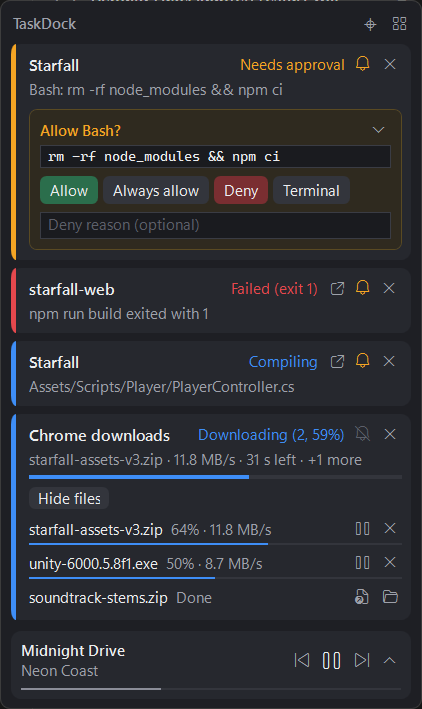
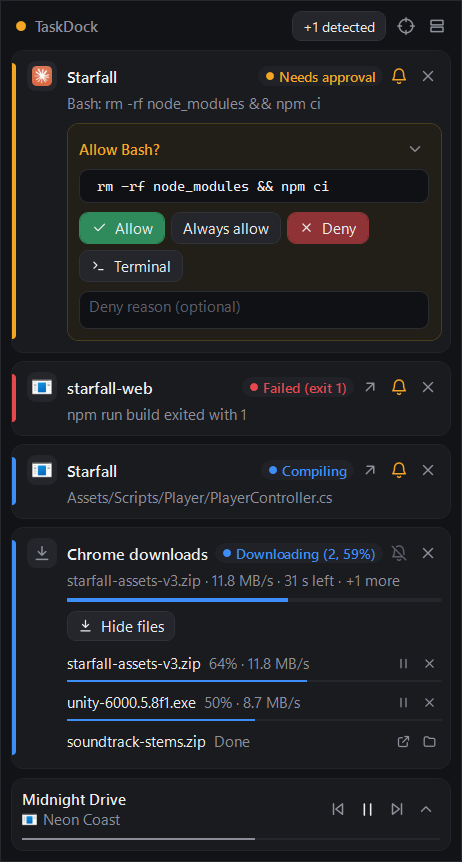
README screenshots in the new look; widget 352 px wide
- New widget-expanded, -compact, -media and -pill images from a staged scene (fake
  adapters and a fake "Midnight Drive" media session; no real data)
- The widget grows from 320 to 352 px so a tile's name still fits next to its status chip

diff --git a/src/TaskDock.App/MainWindow.xaml b/src/TaskDock.App/MainWindow.xaml
@@ -85,7 +85,7 @@
             <Setter Property="Template">
                 <Setter.Value>
                     <ControlTemplate TargetType="Button">
-                        <Border x:Name="b" Background="Transparent" CornerRadius="6" Padding="5">
+                        <Border x:Name="b" Background="Transparent" CornerRadius="6" Padding="4">
                             <Viewbox Width="{TemplateBinding FontSize}" Height="{TemplateBinding FontSize}">
                                 <Grid Width="24" Height="24">
                                     <Path Style="{StaticResource Stroke}" Data="{Binding Tag, RelativeSource={RelativeSource TemplatedParent}}" Stroke="{TemplateBinding Foreground}"/>
@@ -109,7 +109,7 @@
             <Setter Property="Template">
                 <Setter.Value>
                     <ControlTemplate TargetType="ToggleButton">
-                        <Border x:Name="b" Background="Transparent" CornerRadius="6" Padding="5">
+                        <Border x:Name="b" Background="Transparent" CornerRadius="6" Padding="4">
                             <Viewbox Width="14" Height="14">
                                 <Grid Width="24" Height="24">
                                     <Path x:Name="p" Style="{StaticResource Stroke}" Data="{StaticResource I.bellOff}" Stroke="{StaticResource Faint}"/>
@@ -129,10 +129,10 @@
         </Style>
         <!-- The source's own program icon, or our glyph for it while that isn't known. -->
         <Style x:Key="GlyphBox" TargetType="Border">
-            <Setter Property="Width" Value="26"/><Setter Property="Height" Value="26"/>
+            <Setter Property="Width" Value="24"/><Setter Property="Height" Value="24"/>
             <Setter Property="CornerRadius" Value="7"/>
             <Setter Property="Background" Value="{StaticResource Raised}"/>
-            <Setter Property="Margin" Value="0,0,9,0"/>
+            <Setter Property="Margin" Value="0,0,8,0"/>
             <Setter Property="VerticalAlignment" Value="Center"/>
         </Style>
         <Style x:Key="MenuIcon" TargetType="Viewbox">
@@ -173,9 +173,9 @@
                                 <Button Style="{StaticResource Icon}" Tag="{StaticResource I.close}" ToolTip="Remove" Command="{Binding UnpinCommand}"
                                         Visibility="{Binding IsPinned, Converter={StaticResource Vis}}"/>
                             </StackPanel>
-                            <Border DockPanel.Dock="Right" CornerRadius="9" Padding="7,2" Margin="6,0,2,0" VerticalAlignment="Center" Background="#202227">
+                            <Border DockPanel.Dock="Right" CornerRadius="9" Padding="6,1" Margin="4,0,1,0" VerticalAlignment="Center" Background="#202227">
                                 <StackPanel Orientation="Horizontal">
-                                    <Ellipse Width="6" Height="6" Fill="{Binding ClassBrush}" Margin="0,0,5,0" VerticalAlignment="Center"/>
+                                    <Ellipse Width="6" Height="6" Fill="{Binding ClassBrush}" Margin="0,0,4,0" VerticalAlignment="Center"/>
                                     <TextBlock Text="{Binding StateText}" Foreground="{Binding ClassBrush}" FontSize="11" FontWeight="SemiBold" VerticalAlignment="Center"/>
                                 </StackPanel>
                             </Border>
@@ -189,13 +189,13 @@
                             </Border>
                             <TextBlock Text="{Binding Label}" FontWeight="SemiBold" FontSize="13" TextTrimming="CharacterEllipsis" VerticalAlignment="Center"/>
                         </DockPanel>
-                        <StackPanel Margin="35,0,0,0" Visibility="{Binding DataContext.IsExpanded, RelativeSource={RelativeSource AncestorType=Window}, Converter={StaticResource Vis}}">
+                        <StackPanel Margin="32,0,0,0" Visibility="{Binding DataContext.IsExpanded, RelativeSource={RelativeSource AncestorType=Window}, Converter={StaticResource Vis}}">
                             <TextBlock Text="{Binding Detail}" Foreground="{StaticResource Muted}" TextTrimming="CharacterEllipsis" Margin="0,2,0,0"
                                        Visibility="{Binding HasDetail, Converter={StaticResource Vis}}" ToolTip="{Binding Detail}"/>
                             <ProgressBar Height="3" Margin="0,6,0,0" Minimum="0" Maximum="1" Value="{Binding Progress}" Foreground="{Binding ClassBrush}"
                                          Background="{StaticResource Raised}" BorderThickness="0" Visibility="{Binding HasProgress, Converter={StaticResource Vis}}"/>
                         </StackPanel>
-                        <StackPanel Margin="35,0,0,0">
+                        <StackPanel Margin="32,0,0,0">
                             <Button Style="{StaticResource Btn}" Tag="{StaticResource I.power}" Content="Launch" HorizontalAlignment="Left" Margin="0,7,0,0" Command="{Binding LaunchCommand}"
                                     Visibility="{Binding CanLaunch, Converter={StaticResource Vis}}"/>
                             <!-- Downloads: expandable file list -->
@@ -279,7 +279,7 @@
             </Border>
 
             <!-- Expanded / compact -->
-            <StackPanel Width="320" Visibility="{Binding IsPill, Converter={StaticResource InvVis}}" Margin="8">
+            <StackPanel Width="352" Visibility="{Binding IsPill, Converter={StaticResource InvVis}}" Margin="8">
                 <DockPanel Margin="4,0,0,7" Background="Transparent" MouseLeftButtonDown="Header_MouseDown" Cursor="SizeAll">
                     <Button DockPanel.Dock="Right" Style="{StaticResource Icon}" Tag="{StaticResource I.layout}" ToolTip="Cycle mode (Ctrl+Alt+Shift+D)" Command="{Binding CycleModeCommand}"/>
                     <Border DockPanel.Dock="Right" Background="Transparent" Padding="5" CornerRadius="6" Margin="1,0,0,0" Cursor="Cross"
